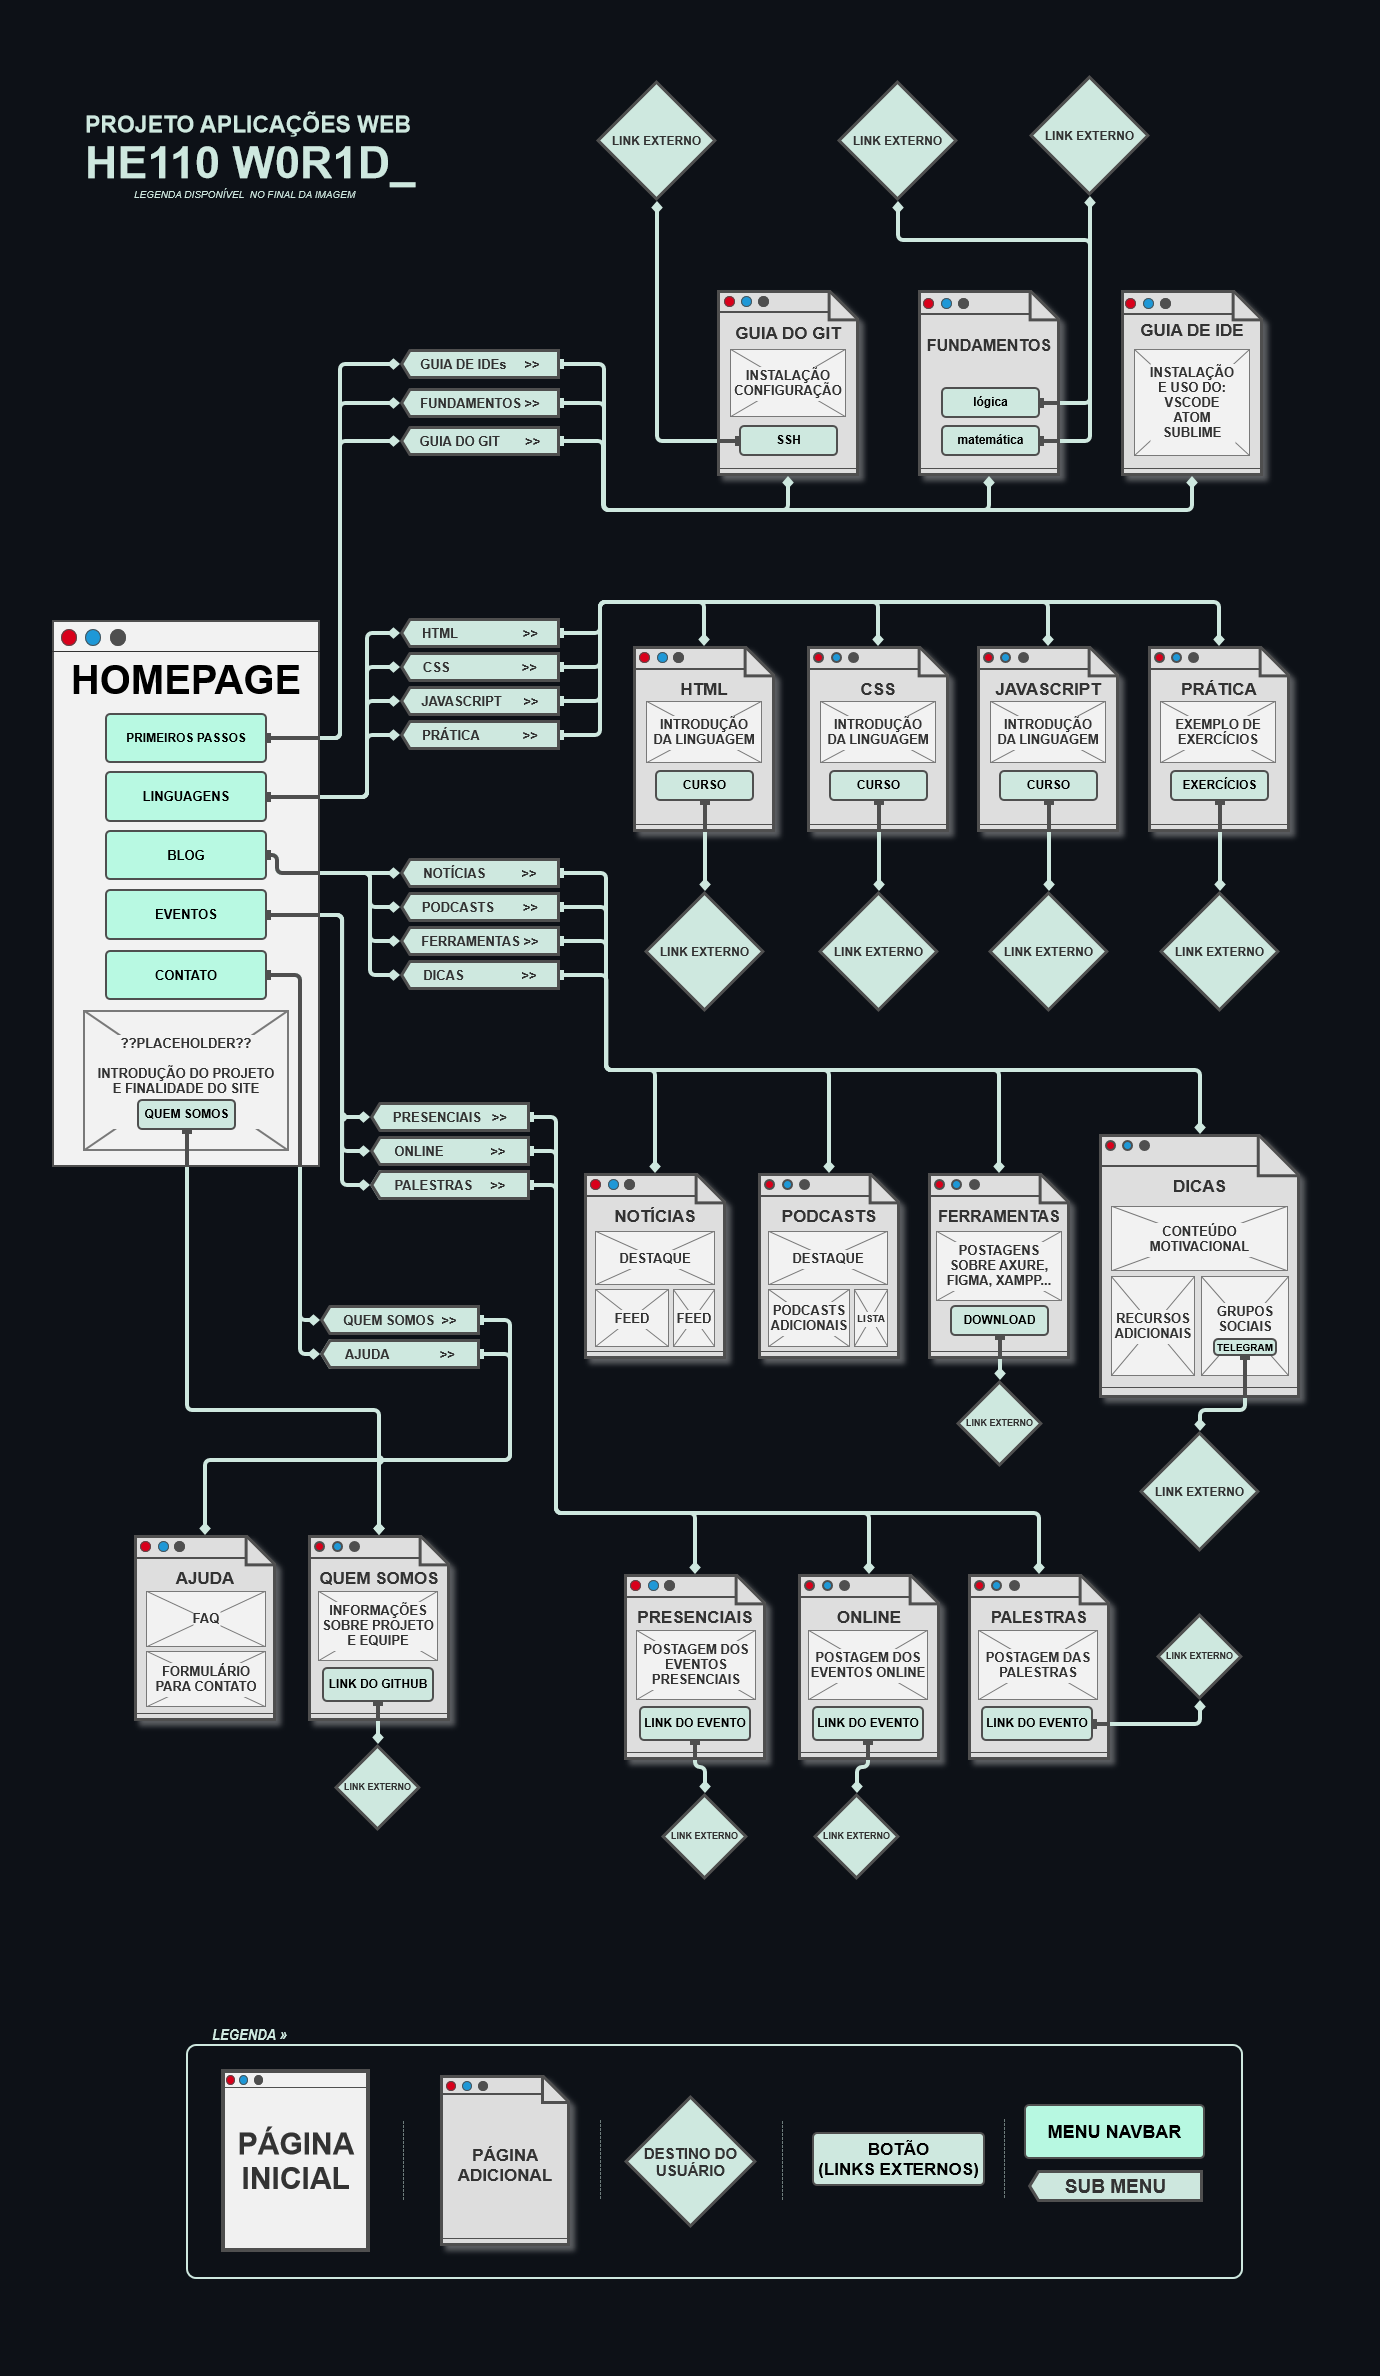
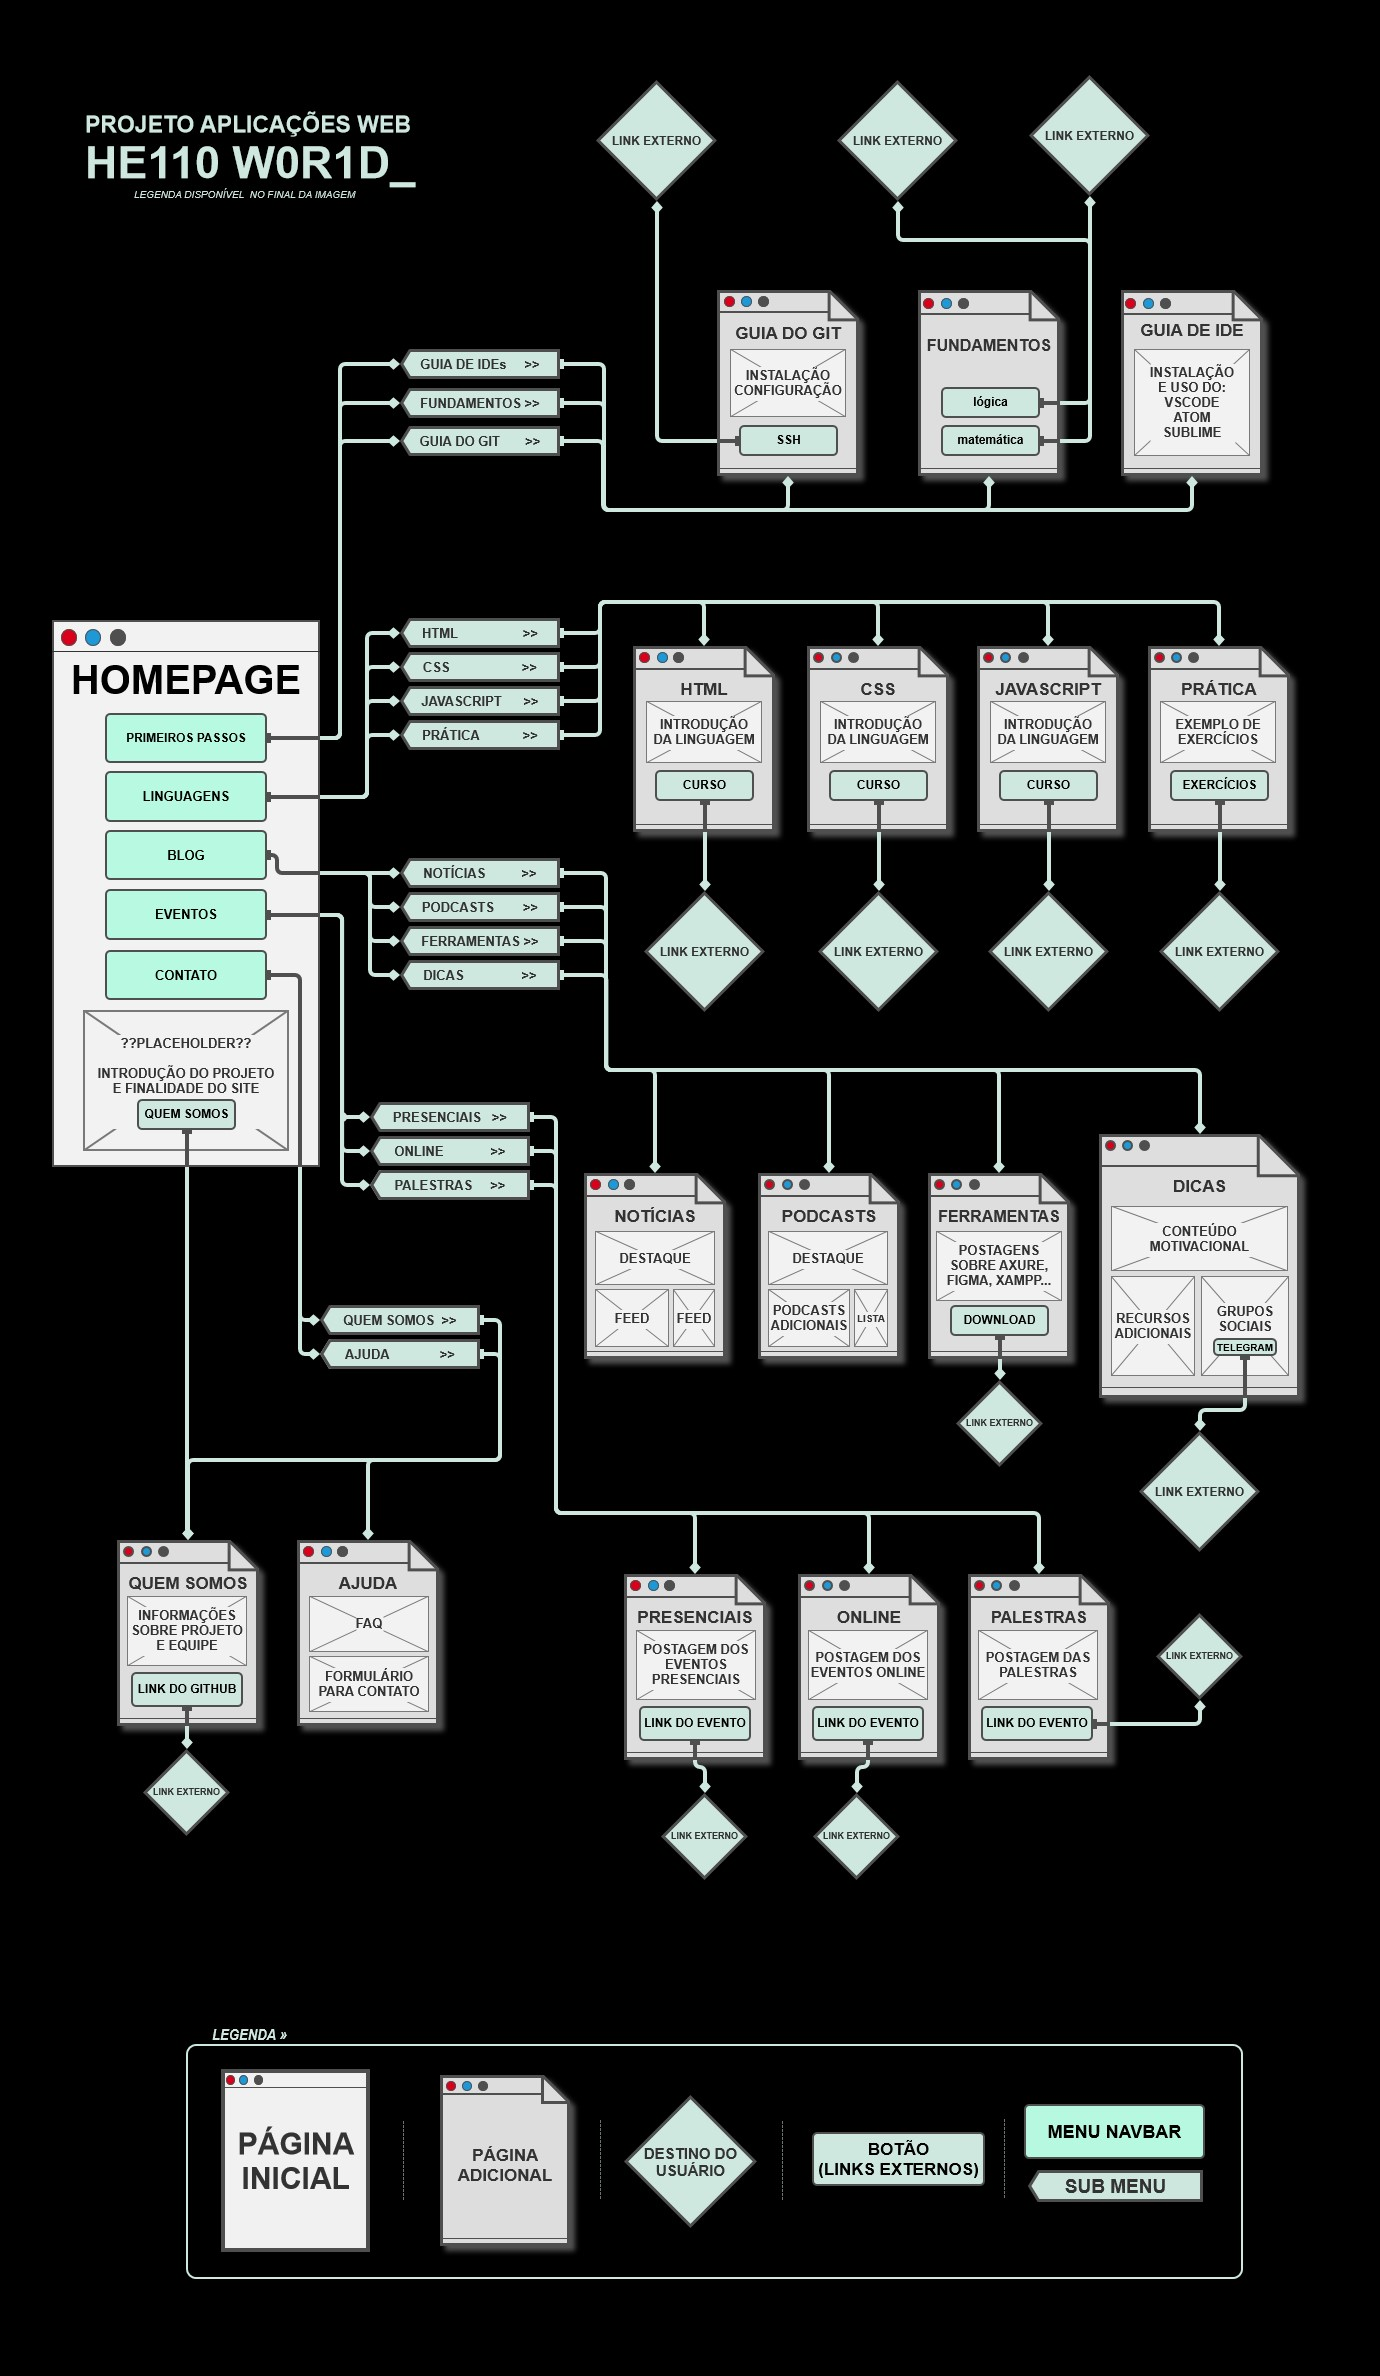
Ajustes no fluxo de usuário #13

Changed region(s): [[0.0623, 0.5918, 0.3428, 0.7786], [0.3428, 0.5606, 0.3739, 0.6229]]

diff --git a/docs/interface.md b/docs/interface.md
@@ -1,15 +1,11 @@
 
 # Projeto de Interface
 
-Visão geral da interação do usuário pelas telas do sistema e protótipo interativo das telas com as funcionalidades que fazem parte do sistema (wireframes).
-
- Apresente as principais interfaces da plataforma. Discuta como ela foi elaborada de forma a atender os requisitos funcionais, não funcionais e histórias de usuário abordados nas <a href="2-Especificação do Projeto.md"> Documentação de Especificação</a>.
+O projeto está dividido em 5 menus principais: Primeiros Passos, Linguagens, Blog, Eventos e Contato seguido de seus sub-menus. As informações foram organizadas para proporcionar um acesso simples e direto, com o foco na usabilidade e facilidade de navegação. O usuário pode fazer uso da barra de navegação em todas as páginas para retornar a página inicial ou acessar o conteúdo disponível pelo menu.
 
 ## User Flow
 
-![Exemplo de UserFlow](img/userflow.jpg)
-
-Fluxo de usuário (User Flow) é uma técnica que permite ao desenvolvedor mapear todo fluxo de telas do site ou app. Essa técnica funciona para alinhar os caminhos e as possíveis ações que o usuário pode fazer junto com os membros de sua equipe.
+![Userflow Hello World](img/userflow.jpg)
 
 > **Links Úteis**:
 > - [User Flow: O Quê É e Como Fazer?](https://medium.com/7bits/fluxo-de-usu%C3%A1rio-user-flow-o-que-%C3%A9-como-fazer-79d965872534)
@@ -22,7 +18,7 @@ Fluxo de usuário (User Flow) é uma técnica que permite ao desenvolvedor mapea
 ![Exemplo de Wireframe](img/wireframe-example.png)
 
 São protótipos usados em design de interface para sugerir a estrutura de um site web e seu relacionamentos entre suas páginas. Um wireframe web é uma ilustração semelhante do layout de elementos fundamentais na interface.
- 
+
 > **Links Úteis**:
 > - [Protótipos vs Wireframes](https://www.nngroup.com/videos/prototypes-vs-wireframes-ux-projects/)
 > - [Ferramentas de Wireframes](https://rockcontent.com/blog/wireframes/)
